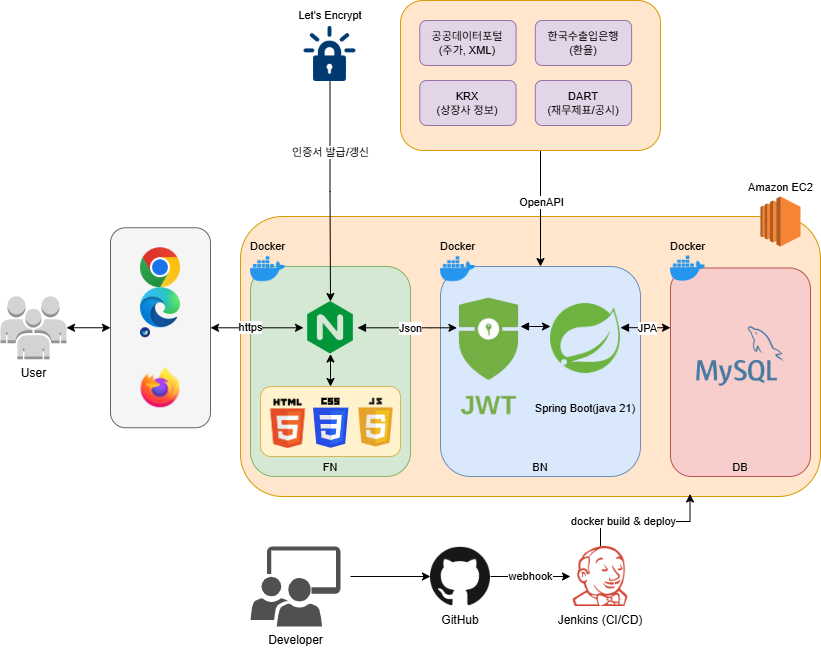
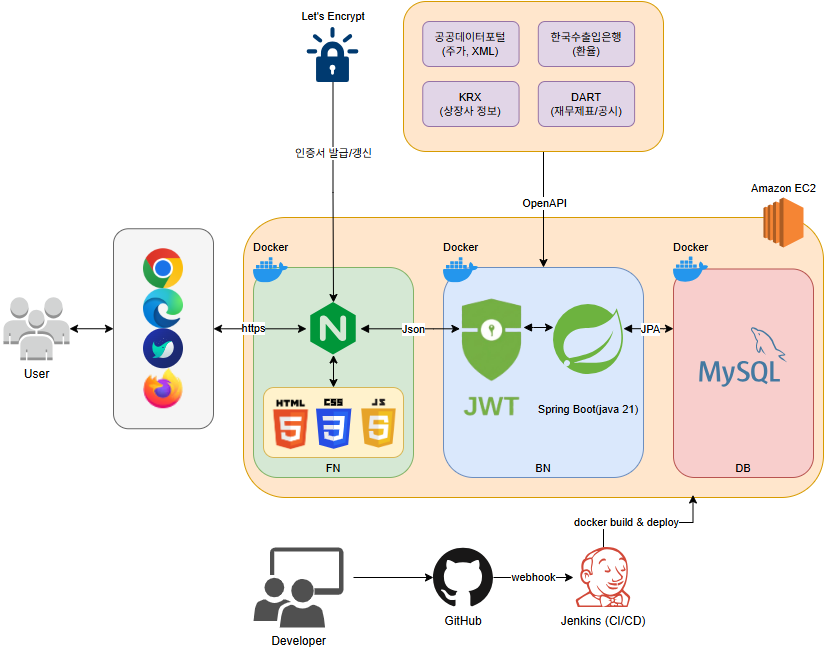
fix: Readme 이미지 수정 + Repository 커스텀 삭제 메서드 수정

Changed region(s): [[0.2436, 0.0, 1.0, 1.0], [0.0, 0.3395, 0.2436, 0.679], [0.1218, 0.6173, 0.1523, 0.6481]]

diff --git a/valuepick/src/main/java/com/example/demo/domain/repository/StockPriceRepository.java b/valuepick/src/main/java/com/example/demo/domain/repository/StockPriceRepository.java
@@ -8,6 +8,7 @@ import org.springframework.data.domain.Pageable;
 import org.springframework.data.jpa.repository.JpaRepository;
 import org.springframework.data.jpa.repository.Query;
 import org.springframework.stereotype.Repository;
+import org.springframework.transaction.annotation.Transactional;
 
 import java.util.List;
 import java.time.LocalDate;
@@ -25,6 +26,7 @@ public interface StockPriceRepository extends JpaRepository<StockPrice, StockPri
     Optional<StockPrice> findTopBySrtnCdAndBasDtLessThanEqualOrderByBasDtDesc(String srtnCd, LocalDate basDt);
 
     // 7일 이전 데이터 삭제
+    @Transactional
     void deleteByBasDtBefore(LocalDate date);
 
     List<StockPrice> findBySrtnCdAndBasDtGreaterThanEqualOrderByBasDtAsc(String srtnCd, LocalDate basDt);

diff --git a/valuepick/src/main/java/com/example/demo/domain/repository/MarketIndexRepository.java b/valuepick/src/main/java/com/example/demo/domain/repository/MarketIndexRepository.java
@@ -3,13 +3,17 @@ package com.example.demo.domain.repository;
 import com.example.demo.domain.entity.MarketIndex;
 import org.springframework.data.jpa.repository.JpaRepository;
 import org.springframework.stereotype.Repository;
+import org.springframework.transaction.annotation.Transactional;
 import java.util.Optional;
 import java.time.LocalDate;
 
 @Repository
 public interface MarketIndexRepository extends JpaRepository<MarketIndex, Long> {
     // 데이터 삭제 메서드
+    @Transactional
     void deleteByBasDdBefore(LocalDate date);
 
     Optional<MarketIndex> findTop1ByIdxNmOrderByBasDdDesc(String idxNm);
+
+    boolean existsByBasDd(LocalDate basDd);
 }

diff --git a/valuepick/src/main/java/com/example/demo/domain/repository/ExchangeRepository.java b/valuepick/src/main/java/com/example/demo/domain/repository/ExchangeRepository.java
@@ -3,6 +3,7 @@ package com.example.demo.domain.repository;
 import com.example.demo.domain.entity.Exchange;
 import org.springframework.data.jpa.repository.JpaRepository;
 import org.springframework.stereotype.Repository;
+import org.springframework.transaction.annotation.Transactional;
 
 import java.time.LocalDate;
 import java.util.List;
@@ -15,6 +16,7 @@ public interface ExchangeRepository extends JpaRepository<Exchange, String> {
     List<Exchange> findByBaseDate(LocalDate baseDate);
 
     // 데이터 삭제 매서드
+    @Transactional
     void deleteByBaseDateBefore(LocalDate date);
    
     List<Exchange> findAllByOrderByBaseDate();

diff --git a/valuepick/src/main/java/com/example/demo/domain/repository/Top100Repository.java b/valuepick/src/main/java/com/example/demo/domain/repository/Top100Repository.java
@@ -6,6 +6,7 @@ import org.springframework.data.domain.Pageable;
 import org.springframework.data.domain.Slice;
 import org.springframework.data.jpa.repository.JpaRepository;
 import org.springframework.data.jpa.repository.Query;
+import org.springframework.transaction.annotation.Transactional;
 
 import java.time.LocalDate;
 import java.util.List;
@@ -14,6 +15,7 @@ public interface Top100Repository extends JpaRepository<Top100, Top100Id> {
 
     boolean existsByBaseDt(LocalDate baseDt);
 
+    @Transactional
     void deleteByBaseDtBefore(LocalDate cutoff);
 
     @Query(value = """

diff --git a/docs/ERD.md b/docs/ERD.md
@@ -1,6 +1,6 @@
 # ValuePick — ERD 설계도
 
-`valuepick/src/main/java/com/example/demo/domain/entity/` 하위 22개 엔티티 클래스를 실제로 전부 읽고 확인한 뒤 작성한 문서입니다. `README2.md`의 ERD 섹션이 핵심 엔티티만 축약해서 보여준다면, 이 문서는 컬럼 단위까지 전부 담은 상세판입니다.
+`valuepick/src/main/java/com/example/demo/domain/entity/` 하위 22개 엔티티 클래스를 실제로 전부 읽고 확인한 뒤 작성한 문서입니다. 컬럼 단위까지 전부 담은 상세판입니다.
 
 ## 목차
 
@@ -250,7 +250,7 @@ erDiagram
 
 ## 설계 특이사항
 
-1. **자연키(natural key) 기반 읽기 전용 연관관계가 많다.** `StockPrice`, `StockIndicator`, `DividendInfo`, `Top100`, `UserFavorite`의 `company`/`user` 연관관계는 전부 `insertable=false, updatable=false`로 선언되어 있습니다. 즉 실제 INSERT/UPDATE는 `@Id` 컬럼(예: `srtn_cd`, `corp_code`, `stock_code`, `user_id`)을 통해서만 이루어지고, 연관관계 필드는 조회(JOIN)용으로만 씁니다. `Top100Service`에서 N+1을 막기 위해 `JOIN FETCH`를 쓴 이유도 이 구조 때문입니다(자세한 내용은 `README2.md` 참고).
+1. **자연키(natural key) 기반 읽기 전용 연관관계가 많다.** `StockPrice`, `StockIndicator`, `DividendInfo`, `Top100`, `UserFavorite`의 `company`/`user` 연관관계는 전부 `insertable=false, updatable=false`로 선언되어 있습니다. 즉 실제 INSERT/UPDATE는 `@Id` 컬럼(예: `srtn_cd`, `corp_code`, `stock_code`, `user_id`)을 통해서만 이루어지고, 연관관계 필드는 조회(JOIN)용으로만 씁니다. `Top100Service`에서 N+1을 막기 위해 `JOIN FETCH`를 쓴 이유도 이 구조 때문입니다.
 2. **`Company`를 참조하는 키가 통일되어 있지 않다.** 대부분은 `stock_code`로 참조하지만 `DIVIDEND_INFO`만 `corp_code`로 참조합니다. DART 배당 정보 API 응답이 `corp_code` 기준이라 그대로 반영된 결과입니다.
 3. **복합키 엔티티는 전부 `@IdClass`를 쓴다.** `StockPrice`, `DividendInfo`, `Top100`, `UserFavorite` 네 곳 모두 별도의 `*Id` Serializable 클래스(`StockPriceId`, `DividendInfoId`, `Top100Id`, `UserFavoriteId`)를 사용합니다.
 4. **비정규화 컬럼이 의도적으로 존재한다.** `Top100.corp_code`, `InvestmentPosition/Buy/Sell.stock_code`·`corp_name`은 정규화하면 조인으로 구할 수 있는 값이지만, 조회 성능과 이력 보존(종목명이 바뀌어도 당시 기록 유지) 목적으로 중복 저장되어 있습니다.
